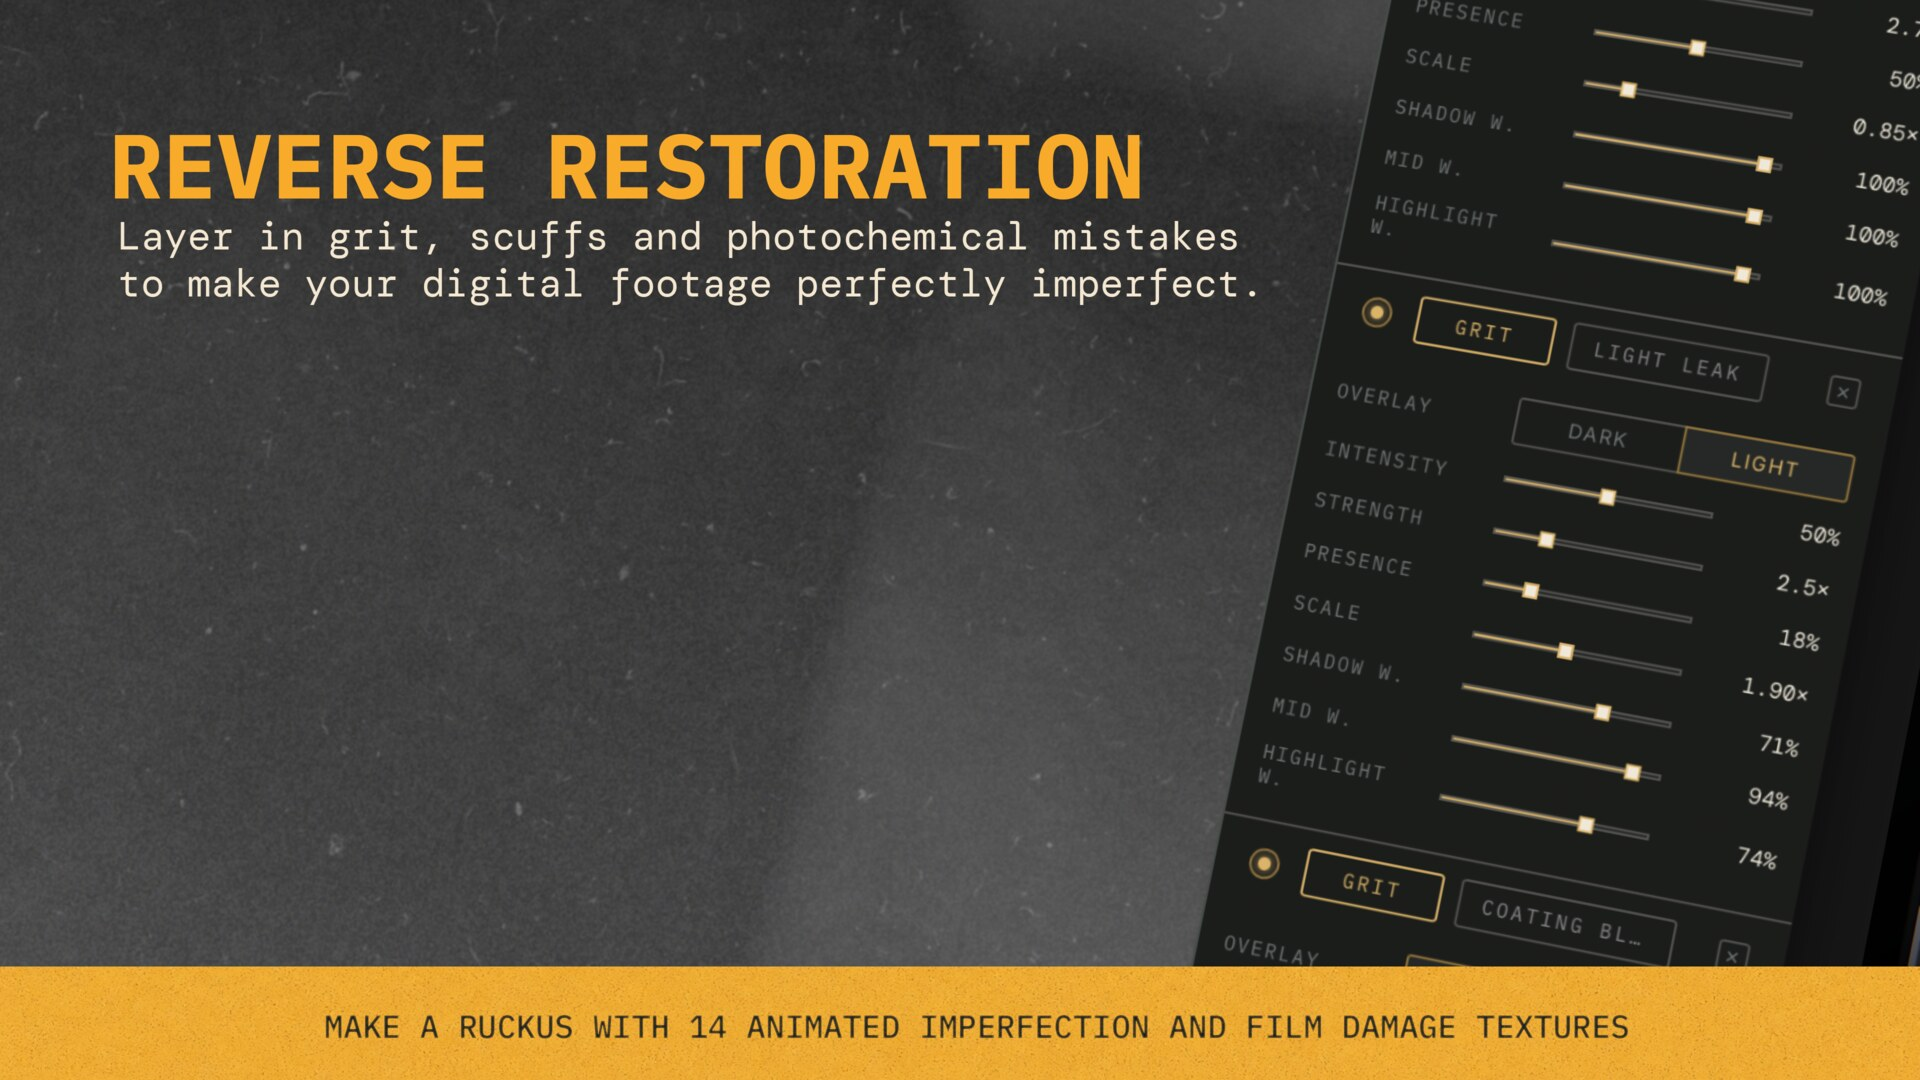
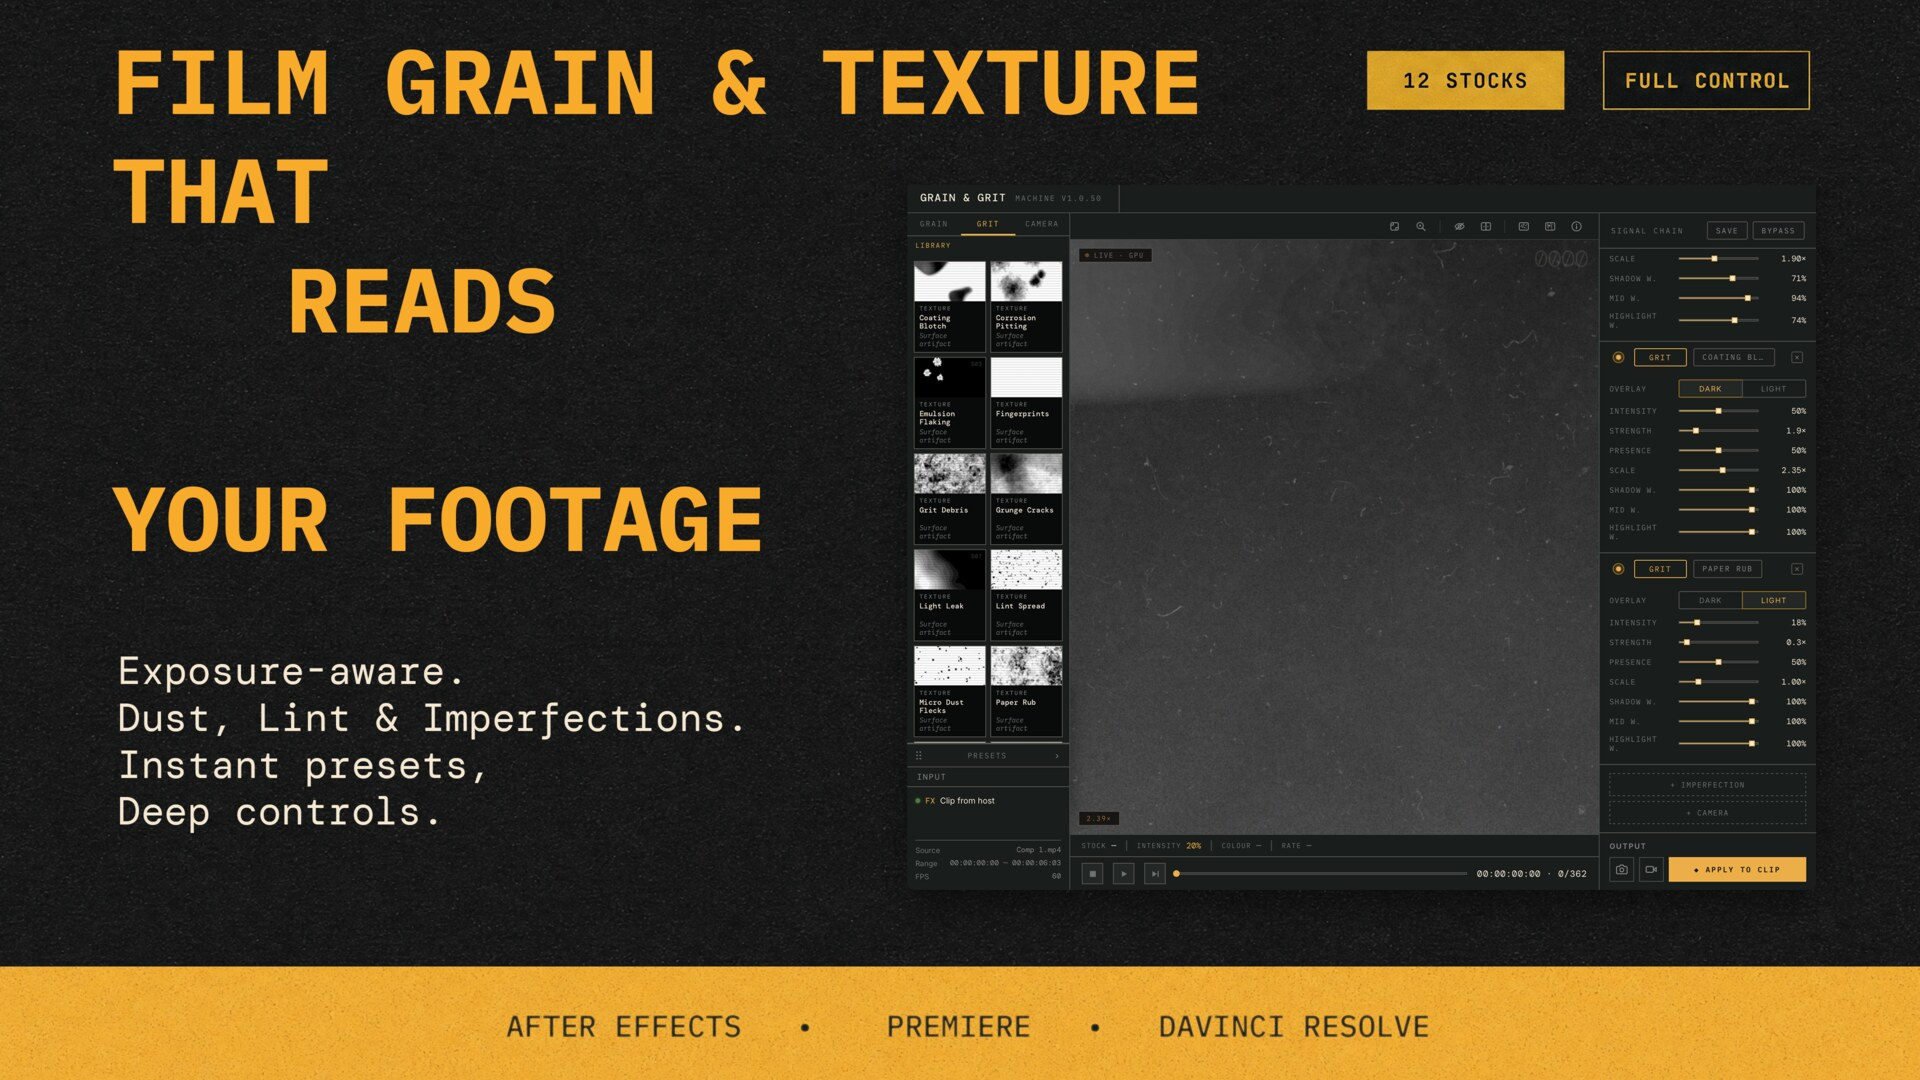
Deploy from ggm-site-v4 tomnipresent/ggm-site-v4@0f04979700e3e50a92b77652f6373a7110a31930

diff --git a/index.html b/index.html
@@ -39,63 +39,73 @@
 <!-- LEFT: Image gallery -->
 <div class="hero-gallery">
 <div class="hero-gallery-main" id="heroGallery">
-<!-- Slide 0: before/after slider — clean frame vs GGM-grained. Drag to compare. -->
 <div class="hero-slide active" data-i="0">
+<img src="/assets/img/hero/hero-1.jpg" alt="Grain &amp; Grit Machine — hero image 1" style="width:100%;height:100%;object-fit:cover" onerror="this.style.display='none';this.nextElementSibling.style.display='flex'">
+<div class="ph" style="display:none;position:absolute;inset:0"><div class="ph-t"><strong>HERO 1</strong>Add assets/img/hero/hero-1.jpg</div></div>
+</div>
+
+<div class="hero-slide" data-i="1">
+<img src="/assets/img/hero/hero-2.jpg" alt="Grain &amp; Grit Machine — hero image 2" style="width:100%;height:100%;object-fit:cover" loading="lazy" onerror="this.style.display='none';this.nextElementSibling.style.display='flex'">
+<div class="ph" style="display:none;position:absolute;inset:0"><div class="ph-t"><strong>HERO 2</strong>Add assets/img/hero/hero-2.jpg</div></div>
+</div>
+
+<div class="hero-slide" data-i="2">
+<img src="/assets/img/hero/hero-3.jpg" alt="Grain &amp; Grit Machine — hero image 3" style="width:100%;height:100%;object-fit:cover" loading="lazy" onerror="this.style.display='none';this.nextElementSibling.style.display='flex'">
+<div class="ph" style="display:none;position:absolute;inset:0"><div class="ph-t"><strong>HERO 3</strong>Add assets/img/hero/hero-3.jpg</div></div>
+</div>
+
+<!-- Before/after slider slide — clean frame vs GGM-grained. Drag to compare. -->
+<div class="hero-slide" data-i="3">
 <div class="ba" id="heroBA" role="slider" aria-label="Before and after comparison — drag to reveal grain" aria-valuemin="0" aria-valuemax="100" aria-valuenow="50">
-<img src="/assets/img/hero/hero-ba-after.jpg" alt="With Grain &amp; Grit Machine — grain rendered into the frame" onerror="this.closest('.hero-slide').querySelector('.ph').style.display='flex';this.closest('.ba').style.visibility='hidden'">
-<div class="ba-before-wrap"><img src="/assets/img/hero/hero-ba-before.jpg" alt="Clean digital frame — before grain"></div>
+<img src="/assets/img/hero/hero-ba-after.jpg" alt="With Grain &amp; Grit Machine — grain rendered into the frame" loading="lazy" onerror="this.closest('.hero-slide').querySelector('.ph').style.display='flex';this.closest('.ba').style.visibility='hidden'">
+<div class="ba-before-wrap"><img src="/assets/img/hero/hero-ba-before.jpg" alt="Clean digital frame — before grain" loading="lazy"></div>
 <div class="ba-divider"><div class="ba-handle">&#9666; drag &#9656;</div></div>
 <span class="ba-tag ba-tag-l">Before</span>
 <span class="ba-tag ba-tag-r">GGM</span>
 </div>
 <div class="ph" style="display:none;position:absolute;inset:0"><div class="ph-t"><strong>HERO BEFORE/AFTER</strong>Add assets/img/hero/hero-ba-before.jpg (clean frame) + hero-ba-after.jpg (same frame, GGM-grained). Must be the same frame, pixel-aligned.</div></div>
 </div>
-<div class="hero-slide" data-i="1">
-<img src="/assets/img/hero/hero-1.jpg" alt="Grain &amp; Grit Machine — hero image 1" style="width:100%;height:100%;object-fit:cover" loading="lazy" onerror="this.style.display='none';this.nextElementSibling.style.display='flex'">
-<div class="ph" style="display:none;position:absolute;inset:0"><div class="ph-t"><strong>HERO 1</strong>Add assets/img/hero/hero-1.jpg</div></div>
-</div>
-<div class="hero-slide" data-i="2">
-<img src="/assets/img/hero/hero-2.jpg" alt="Grain &amp; Grit Machine — hero image 2" style="width:100%;height:100%;object-fit:cover" loading="lazy" onerror="this.style.display='none';this.nextElementSibling.style.display='flex'">
-<div class="ph" style="display:none;position:absolute;inset:0"><div class="ph-t"><strong>HERO 2</strong>Add assets/img/hero/hero-2.jpg</div></div>
-</div>
-<div class="hero-slide" data-i="3">
-<img src="/assets/img/hero/hero-3.jpg" alt="Grain &amp; Grit Machine — hero image 3" style="width:100%;height:100%;object-fit:cover" loading="lazy" onerror="this.style.display='none';this.nextElementSibling.style.display='flex'">
-<div class="ph" style="display:none;position:absolute;inset:0"><div class="ph-t"><strong>HERO 3</strong>Add assets/img/hero/hero-3.jpg</div></div>
-</div>
 <div class="hero-slide" data-i="4">
 <img src="/assets/img/hero/hero-4.jpg" alt="Grain &amp; Grit Machine — hero image 4" style="width:100%;height:100%;object-fit:cover" loading="lazy" onerror="this.style.display='none';this.nextElementSibling.style.display='flex'">
 <div class="ph" style="display:none;position:absolute;inset:0"><div class="ph-t"><strong>HERO 4</strong>Add assets/img/hero/hero-4.jpg</div></div>
 </div>
+
 <div class="hero-slide" data-i="5">
 <img src="/assets/img/hero/hero-5.jpg" alt="Grain &amp; Grit Machine — hero image 5" style="width:100%;height:100%;object-fit:cover" loading="lazy" onerror="this.style.display='none';this.nextElementSibling.style.display='flex'">
 <div class="ph" style="display:none;position:absolute;inset:0"><div class="ph-t"><strong>HERO 5</strong>Add assets/img/hero/hero-5.jpg</div></div>
 </div>
+
 </div>
 <div class="hero-gallery-thumbs">
 <div class="hero-gallery-thumb active" data-i="0" style="position:relative;overflow:hidden">
-<img src="/assets/img/hero/hero-ba-after.jpg" alt="" style="width:100%;height:100%;object-fit:cover;display:block" loading="lazy" onerror="this.style.display='none';this.nextElementSibling.style.display='flex'">
-<div class="ph" style="display:none;position:absolute;inset:0"><div class="ph-t"><strong>B/A</strong></div></div>
-</div>
-<div class="hero-gallery-thumb" data-i="1" style="position:relative;overflow:hidden">
 <img src="/assets/img/hero/hero-1.jpg" alt="" style="width:100%;height:100%;object-fit:cover;display:block" loading="lazy" onerror="this.style.display='none';this.nextElementSibling.style.display='flex'">
 <div class="ph" style="display:none;position:absolute;inset:0"><div class="ph-t"><strong>HERO 1</strong></div></div>
 </div>
-<div class="hero-gallery-thumb" data-i="2" style="position:relative;overflow:hidden">
+
+<div class="hero-gallery-thumb" data-i="1" style="position:relative;overflow:hidden">
 <img src="/assets/img/hero/hero-2.jpg" alt="" style="width:100%;height:100%;object-fit:cover;display:block" loading="lazy" onerror="this.style.display='none';this.nextElementSibling.style.display='flex'">
 <div class="ph" style="display:none;position:absolute;inset:0"><div class="ph-t"><strong>HERO 2</strong></div></div>
 </div>
-<div class="hero-gallery-thumb" data-i="3" style="position:relative;overflow:hidden">
+
+<div class="hero-gallery-thumb" data-i="2" style="position:relative;overflow:hidden">
 <img src="/assets/img/hero/hero-3.jpg" alt="" style="width:100%;height:100%;object-fit:cover;display:block" loading="lazy" onerror="this.style.display='none';this.nextElementSibling.style.display='flex'">
 <div class="ph" style="display:none;position:absolute;inset:0"><div class="ph-t"><strong>HERO 3</strong></div></div>
+</div>
+
+<div class="hero-gallery-thumb" data-i="3" style="position:relative;overflow:hidden">
+<img src="/assets/img/hero/hero-ba-after.jpg" alt="" style="width:100%;height:100%;object-fit:cover;display:block" loading="lazy" onerror="this.style.display='none';this.nextElementSibling.style.display='flex'">
+<div class="ph" style="display:none;position:absolute;inset:0"><div class="ph-t"><strong>B/A</strong></div></div>
 </div>
 <div class="hero-gallery-thumb" data-i="4" style="position:relative;overflow:hidden">
 <img src="/assets/img/hero/hero-4.jpg" alt="" style="width:100%;height:100%;object-fit:cover;display:block" loading="lazy" onerror="this.style.display='none';this.nextElementSibling.style.display='flex'">
 <div class="ph" style="display:none;position:absolute;inset:0"><div class="ph-t"><strong>HERO 4</strong></div></div>
 </div>
+
 <div class="hero-gallery-thumb" data-i="5" style="position:relative;overflow:hidden">
 <img src="/assets/img/hero/hero-5.jpg" alt="" style="width:100%;height:100%;object-fit:cover;display:block" loading="lazy" onerror="this.style.display='none';this.nextElementSibling.style.display='flex'">
 <div class="ph" style="display:none;position:absolute;inset:0"><div class="ph-t"><strong>HERO 5</strong></div></div>
 </div>
+
 </div>
 </div>
 
